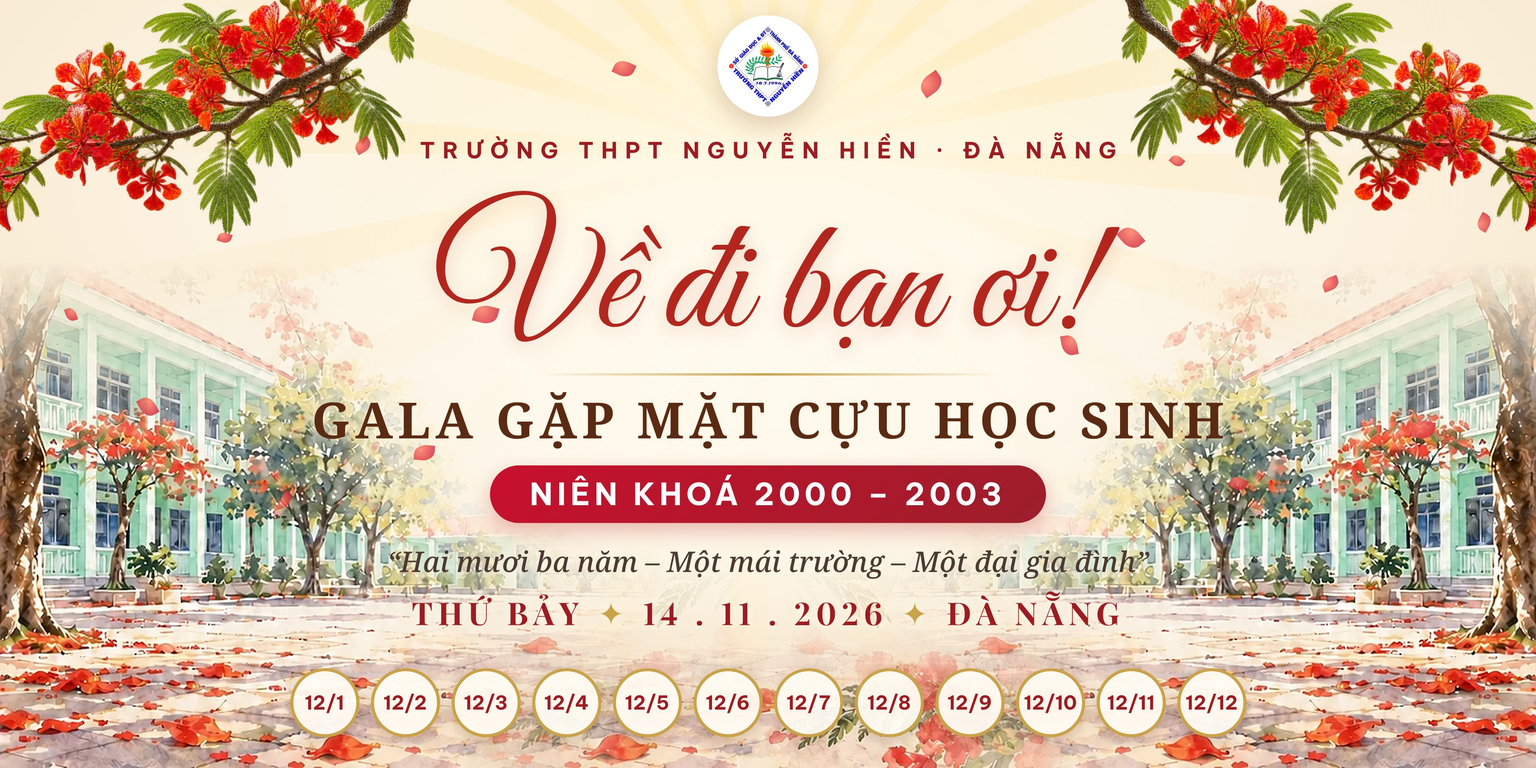
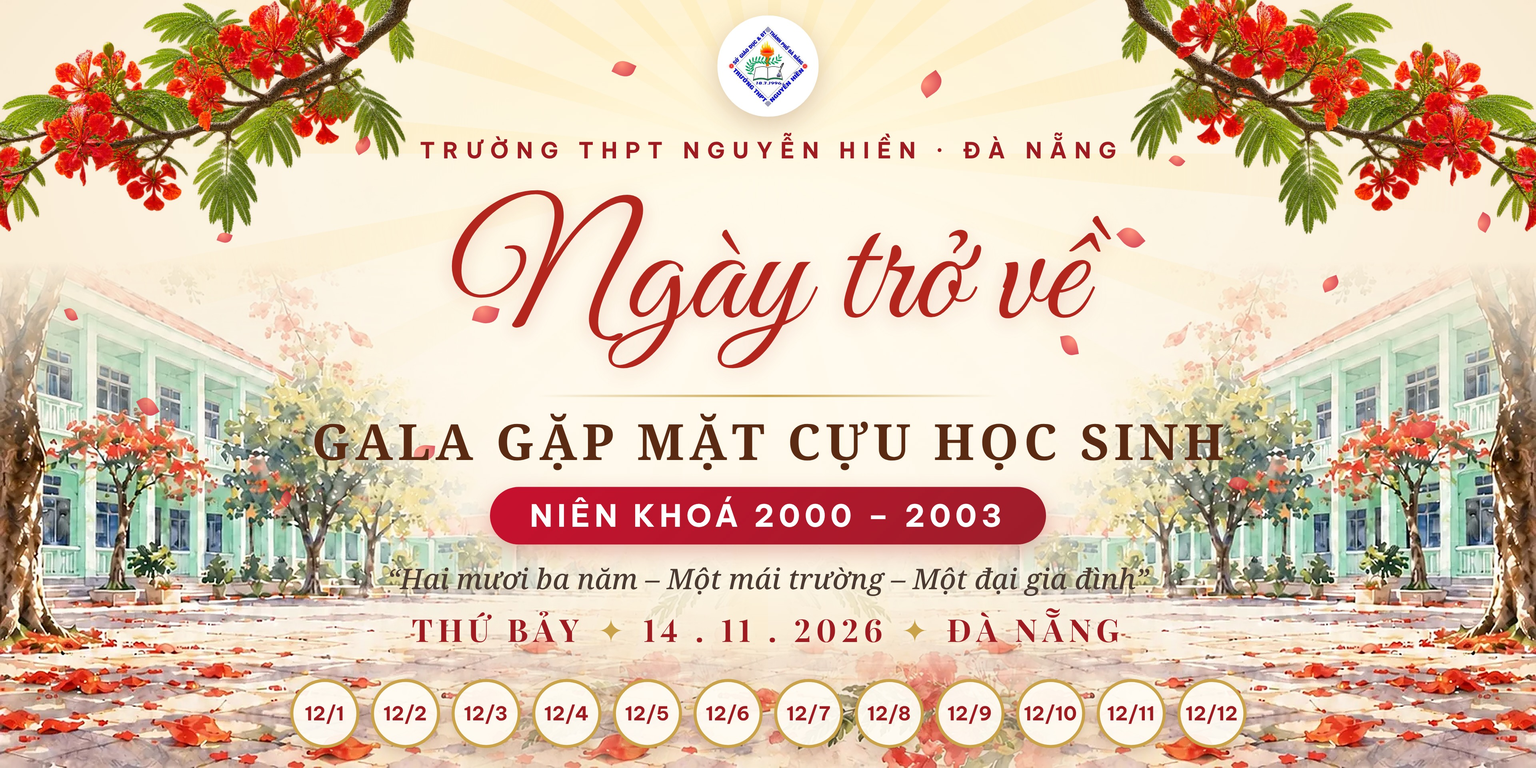
Đổi chữ lớn thành "Ngày trở về" (phông, 10 mẫu, clip), giãn chữ khỏi vạch vàng
Claude-Session: https://claude.ai/code/session_01Y1ZWh7bFy81zQtocY5fDHA

Changed region(s): [[0.1875, 0.25, 0.8125, 0.8438], [0.1875, 0.875, 0.8125, 0.9688]]

diff --git a/thiet-ke/backdrop-10-mau/mau.html b/thiet-ke/backdrop-10-mau/mau.html
@@ -24,21 +24,21 @@ const MAU12=['#C8102E','#E8743B','#E8B04A','#3E7A3A','#2F8F8B','#2E5D8C','#5B4BA
 const P=[[14,30,20],[23,18,-30],[9,52,60],[31,40,15],[76,20,40],[86,36,-20],[69,44,80],[92,55,10],[18,64,-50],[80,62,30],[40,8,25],[60,10,-35],[4,40,70],[96,28,-60],[27,58,5],[73,30,50],[48,88,40],[55,70,-20],[36,76,65],[64,82,10]];
 const roi=n=>'<div class="roi">'+P.slice(0,n||16).map(([x,y,r],i)=>'<i style="left:'+x+'vw;top:'+y*.5+'vw;transform:rotate('+r+'deg) scale('+(.7+(i%4)*.18).toFixed(2)+')"></i>').join('')+'</div>';
 const NEN='<div class="tia"></div><div class="nang"></div>',SAN2='<div class="san trai"></div><div class="san phai"></div><div class="gach"></div>',MO='<div class="mo"></div>',CANH='<div class="canh c1"></div><div class="canh c2"></div>';
-const nd=(o)=>{o=o||{};return '<img class="logo" src="../backdrop-gala-mau-nuoc/logo-1600.png" alt=""><div class="ey" style="margin-top:1vw">Trường THPT Nguyễn Hiền · Đà Nẵng</div><div class="td" style="margin-top:'+(o.mt||2.9)+'vw">Về đi bạn ơi!</div><div class="vach" style="margin-top:.1vw"></div><div class="gala" style="margin-top:1vw">'+(o.lua?'<span class="lua">GALA GẶP MẶT CỰU HỌC SINH</span>':'GALA GẶP MẶT CỰU HỌC SINH')+'</div><div style="margin-top:'+(o.lua?1.6:1.1)+'vw"><span class="nk'+(o.lua?' vien':'')+'">NIÊN KHOÁ 2000 – 2003</span></div><div class="cau" style="margin-top:1.2vw">“Hai mươi ba năm – Một mái trường – Một đại gia đình”</div><div class="ngay" style="margin-top:.7vw">THỨ BẢY<b>✦</b>14 . 11 . 2026<b>✦</b>ĐÀ NẴNG</div>'};
+const nd=(o)=>{o=o||{};return '<img class="logo" src="../backdrop-gala-mau-nuoc/logo-1600.png" alt=""><div class="ey" style="margin-top:1vw">Trường THPT Nguyễn Hiền · Đà Nẵng</div><div class="td" style="margin-top:'+(o.mt||2.3)+'vw">Ngày trở về</div><div class="vach" style="margin-top:2.1vw"></div><div class="gala" style="margin-top:1vw">'+(o.lua?'<span class="lua">GALA GẶP MẶT CỰU HỌC SINH</span>':'GALA GẶP MẶT CỰU HỌC SINH')+'</div><div style="margin-top:'+(o.lua?1.6:1.1)+'vw"><span class="nk'+(o.lua?' vien':'')+'">NIÊN KHOÁ 2000 – 2003</span></div><div class="cau" style="margin-top:.9vw">“Hai mươi ba năm – Một mái trường – Một đại gia đình”</div><div class="ngay" style="margin-top:.7vw">THỨ BẢY<b>✦</b>14 . 11 . 2026<b>✦</b>ĐÀ NẴNG</div>'};
 const lop=(st,c)=>'<div class="giua lop" style="'+st+'">'+MAU12.map((m,i)=>'<span'+(c?' style="background:'+m+';color:#fff;border-color:rgba(255,255,255,.9)"':'')+'>12/'+(i+1)+'</span>').join('')+'</div>';
 const giua=(st,h)=>'<div class="giua" style="'+st+'">'+h+'</div>';
 const vong=()=>'<div class="vong">'+MAU12.map((m,i)=>{const a=(166-i*(152/11))*Math.PI/180;return '<span style="left:'+(50+46*Math.cos(a)).toFixed(2)+'vw;top:'+(12+34*Math.sin(a)*.95).toFixed(2)+'vw;background:'+m+'">12/'+(i+1)+'</span>'}).join('')+'</div>';
 const MAU=[
-/* 1 Đối xứng (mẫu đã duyệt) */ ()=>NEN+SAN2+MO+CANH+roi()+giua('top:1vw',nd())+lop('bottom:2vw'),
+/* 1 Đối xứng (mẫu đã duyệt) */ ()=>NEN+SAN2+MO+CANH+roi()+giua('top:1vw',nd())+lop('bottom:1.3vw'),
 /* 2 Sân trường bên trái, chữ bên phải */ ()=>NEN+'<div class="san1"></div><div class="ab" style="left:36vw;right:0;top:0;bottom:0;background:radial-gradient(55% 60% at 55% 50%,rgba(255,250,238,.95),rgba(255,250,238,.6) 60%,transparent)"></div><div class="canh c2" style="width:24vw;height:16vw"></div>'+roi()+'<div class="khoi" style="left:39vw;right:5vw;top:1.6vw;zoom:.84">'+nd()+'<div class="lop" style="margin-top:2.2vw;zoom:.82">'+MAU12.map((m,i)=>'<span>12/'+(i+1)+'</span>').join('')+'</div></div>',
 /* 3 Sân trường bên phải, chữ bên trái */ ()=>NEN+'<div class="san1 phai"></div><div class="ab" style="left:0;right:36vw;top:0;bottom:0;background:radial-gradient(55% 60% at 45% 50%,rgba(255,250,238,.95),rgba(255,250,238,.6) 60%,transparent)"></div><div class="canh c1" style="width:24vw;height:16vw"></div>'+roi()+'<div class="khoi" style="left:5vw;right:39vw;top:1.6vw;zoom:.84">'+nd()+'<div class="lop" style="margin-top:2.2vw;zoom:.82">'+MAU12.map((m,i)=>'<span>12/'+(i+1)+'</span>').join('')+'</div></div>',
 /* 4 Thẻ giấy nổi giữa sân trường */ ()=>NEN+SAN2+'<div class="the"></div>'+CANH+roi()+'<div class="khoi" style="left:21vw;right:21vw;top:4.4vw;zoom:.8">'+nd()+'</div>'+lop('bottom:4.6vw;zoom:.74'),
 /* 5 Khung vàng */ ()=>NEN+'<div style="position:absolute;inset:0;opacity:.6">'+SAN2+'</div>'+MO+'<div class="khung"><i style="left:47.5vw;top:-1.7vw">✦</i><i style="left:47.5vw;bottom:-1.7vw">✦</i></div>'+CANH+roi()+giua('top:3.4vw;zoom:.9',nd())+lop('bottom:3.8vw;zoom:.88'),
 /* 6 Ô cửa vòm */ ()=>NEN+'<div class="vom"></div><div class="canh c2" style="width:24vw;height:16vw"></div>'+roi()+'<div class="khoi" style="left:39vw;right:5vw;top:1.6vw;zoom:.84">'+nd()+'<div class="lop" style="margin-top:2.2vw;zoom:.82">'+MAU12.map((m,i)=>'<span>12/'+(i+1)+'</span>').join('')+'</div></div>',
-/* 7 Nắng chiều vàng */ ()=>'<div class="ab" style="inset:0;background:linear-gradient(180deg,#FFF4DC 0%,#FBD9A8 45%,#F2B98C 100%)"></div>'+NEN+'<div class="mattroi"></div><div style="position:absolute;inset:0;filter:sepia(.25) saturate(1.15)">'+SAN2+'</div>'+MO+CANH+roi()+giua('top:1vw',nd())+lop('bottom:2vw'),
-/* 8 Dải lụa đỏ */ ()=>NEN+SAN2+MO+CANH+roi()+giua('top:1vw',nd({lua:1}))+lop('bottom:2vw'),
+/* 7 Nắng chiều vàng */ ()=>'<div class="ab" style="inset:0;background:linear-gradient(180deg,#FFF4DC 0%,#FBD9A8 45%,#F2B98C 100%)"></div>'+NEN+'<div class="mattroi"></div><div style="position:absolute;inset:0;filter:sepia(.25) saturate(1.15)">'+SAN2+'</div>'+MO+CANH+roi()+giua('top:1vw',nd())+lop('bottom:1.3vw'),
+/* 8 Dải lụa đỏ */ ()=>NEN+SAN2+MO+CANH+roi()+giua('top:1vw',nd({lua:1}))+lop('bottom:1.3vw'),
 /* 9 Vòng mười hai lớp */ ()=>NEN+SAN2+MO+CANH+roi()+vong()+giua('top:1vw;zoom:.9',nd()),
-/* 10 Tối giản – chỉ hoa phượng */ ()=>NEN+'<div class="mattroi" style="top:9vw;opacity:.7"></div>'+CANH+'<div class="canh" style="left:-5vw;bottom:-4.4vw;transform:scaleY(-1) rotate(8deg)"></div><div class="canh" style="right:-5vw;bottom:-4.4vw;transform:scale(-1,-1) rotate(8deg)"></div>'+roi(20)+giua('top:1vw',nd())+lop('bottom:2.2vw',1)
+/* 10 Tối giản – chỉ hoa phượng */ ()=>NEN+'<div class="mattroi" style="top:9vw;opacity:.7"></div>'+CANH+'<div class="canh" style="left:-5vw;bottom:-4.4vw;transform:scaleY(-1) rotate(8deg)"></div><div class="canh" style="right:-5vw;bottom:-4.4vw;transform:scale(-1,-1) rotate(8deg)"></div>'+roi(20)+giua('top:1vw',nd())+lop('bottom:1.2vw',1)
 ];
 document.getElementById('k').innerHTML=MAU[M-1]();
 </script></body></html>

diff --git a/thiet-ke/clip-backdrop/clip.html b/thiet-ke/clip-backdrop/clip.html
@@ -63,14 +63,14 @@ html,body{width:100vw;height:50vw;overflow:hidden;background:#FBF3E4;-webkit-pri
  <div class="giua" style="top:1vw">
   <img class="logo" src="../backdrop-gala-mau-nuoc/logo-1600.png" alt="">
   <div class="ey" style="margin-top:1vw">Trường THPT Nguyễn Hiền · Đà Nẵng</div>
-  <div class="td" style="margin-top:2.9vw">Về đi bạn ơi!</div>
-  <div class="vach" style="margin-top:.1vw"></div>
+  <div class="td" style="margin-top:2.3vw">Ngày trở về</div>
+  <div class="vach" style="margin-top:2.1vw"></div>
   <div class="gala" style="margin-top:1vw">GALA GẶP MẶT CỰU HỌC SINH</div>
   <div style="margin-top:1.1vw"><span class="nk">NIÊN KHOÁ 2000 – 2003</span></div>
-  <div class="cau" style="margin-top:1.2vw">“Hai mươi ba năm – Một mái trường – Một đại gia đình”</div>
+  <div class="cau" style="margin-top:.9vw">“Hai mươi ba năm – Một mái trường – Một đại gia đình”</div>
   <div class="ngay" style="margin-top:.7vw">THỨ BẢY<b>✦</b>14 . 11 . 2026<b>✦</b>ĐÀ NẴNG</div>
  </div>
- <div class="giua lop" style="bottom:2vw" id="lop"></div>
+ <div class="giua lop" style="bottom:1.3vw" id="lop"></div>
 </div>
 <script>
 document.getElementById('lop').innerHTML=Array.from({length:12},(_,i)=>'<span>12/'+(i+1)+'</span>').join('');

diff --git a/thiet-ke/backdrop-gala-mau-nuoc/backdrop.html b/thiet-ke/backdrop-gala-mau-nuoc/backdrop.html
@@ -39,14 +39,14 @@ html,body{width:100vw;height:50vw;overflow:hidden;background:#FBF3E4;-webkit-pri
  <div class="giua" style="top:1vw">
   <img class="logo" src="logo-1600.png" alt="">
   <div class="ey" style="margin-top:1vw">Trường THPT Nguyễn Hiền · Đà Nẵng</div>
-  <div class="td" style="margin-top:2.9vw">Về đi bạn ơi!</div>
-  <div class="vach" style="margin-top:.1vw"></div>
+  <div class="td" style="margin-top:2.3vw">Ngày trở về</div>
+  <div class="vach" style="margin-top:2.1vw"></div>
   <div class="gala" style="margin-top:1vw">GALA GẶP MẶT CỰU HỌC SINH</div>
   <div style="margin-top:1.1vw"><span class="nk">NIÊN KHOÁ 2000 – 2003</span></div>
-  <div class="cau" style="margin-top:1.2vw">“Hai mươi ba năm – Một mái trường – Một đại gia đình”</div>
+  <div class="cau" style="margin-top:.9vw">“Hai mươi ba năm – Một mái trường – Một đại gia đình”</div>
   <div class="ngay" style="margin-top:.7vw">THỨ BẢY<b>✦</b>14 . 11 . 2026<b>✦</b>ĐÀ NẴNG</div>
  </div>
- <div class="giua lop" style="bottom:2vw" id="lop"></div>
+ <div class="giua lop" style="bottom:1.3vw" id="lop"></div>
 </div>
 <script>
 document.getElementById('lop').innerHTML=Array.from({length:12},(_,i)=>'<span>12/'+(i+1)+'</span>').join('');
